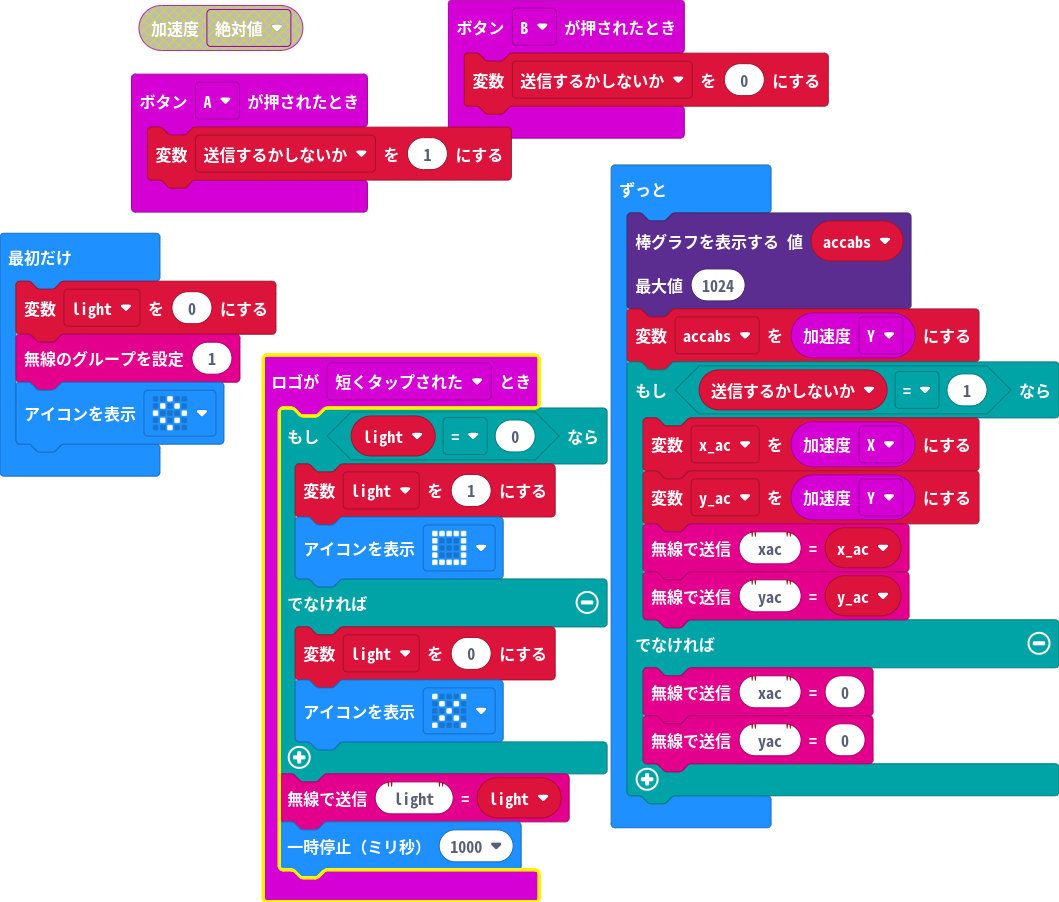
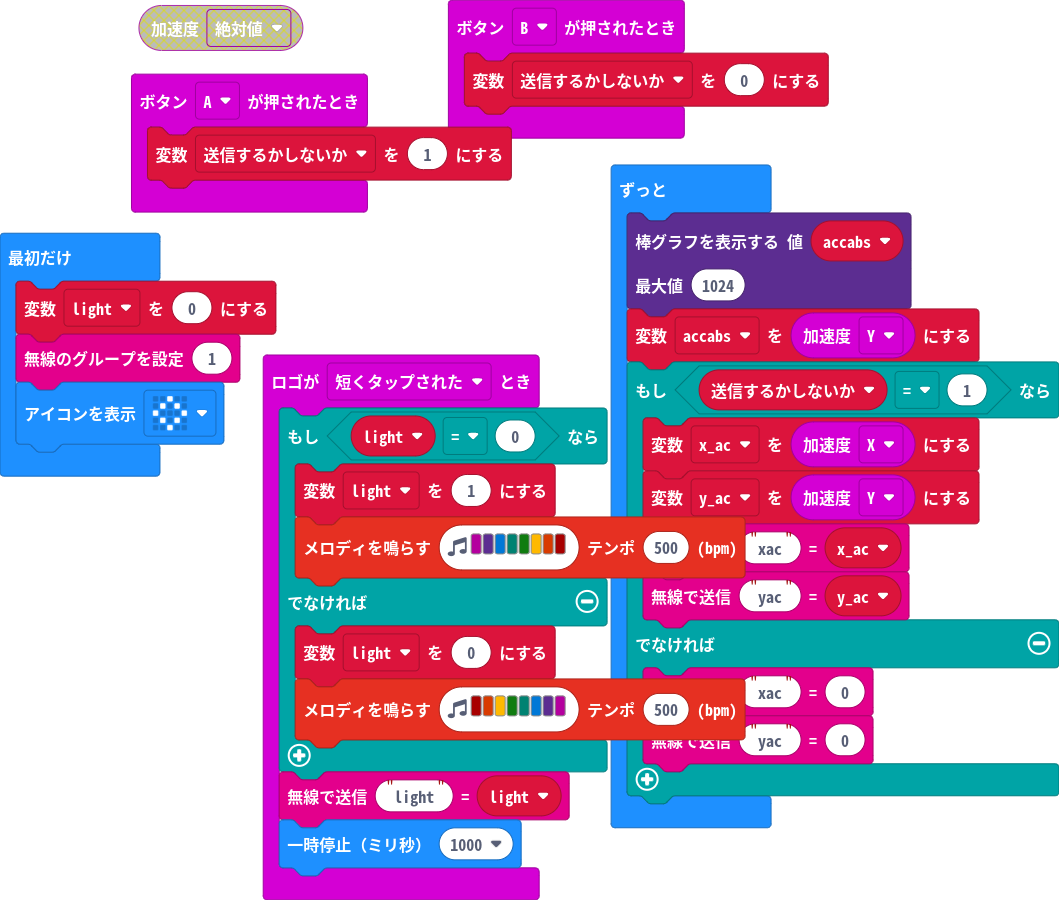
変化の表現をメロディに変更

diff --git a/main.ts b/main.ts
@@ -7,10 +7,10 @@ input.onButtonPressed(Button.B, function () {
 input.onLogoEvent(TouchButtonEvent.Pressed, function () {
     if (light2 == 0) {
         light2 = 1
-        basic.showIcon(IconNames.Square)
+        music.playMelody("C D E F G A B C5 ", 500)
     } else {
         light2 = 0
-        basic.showIcon(IconNames.No)
+        music.playMelody("C5 B A G F E D C ", 500)
     }
     radio.sendValue("light", light2)
     basic.pause(1000)
